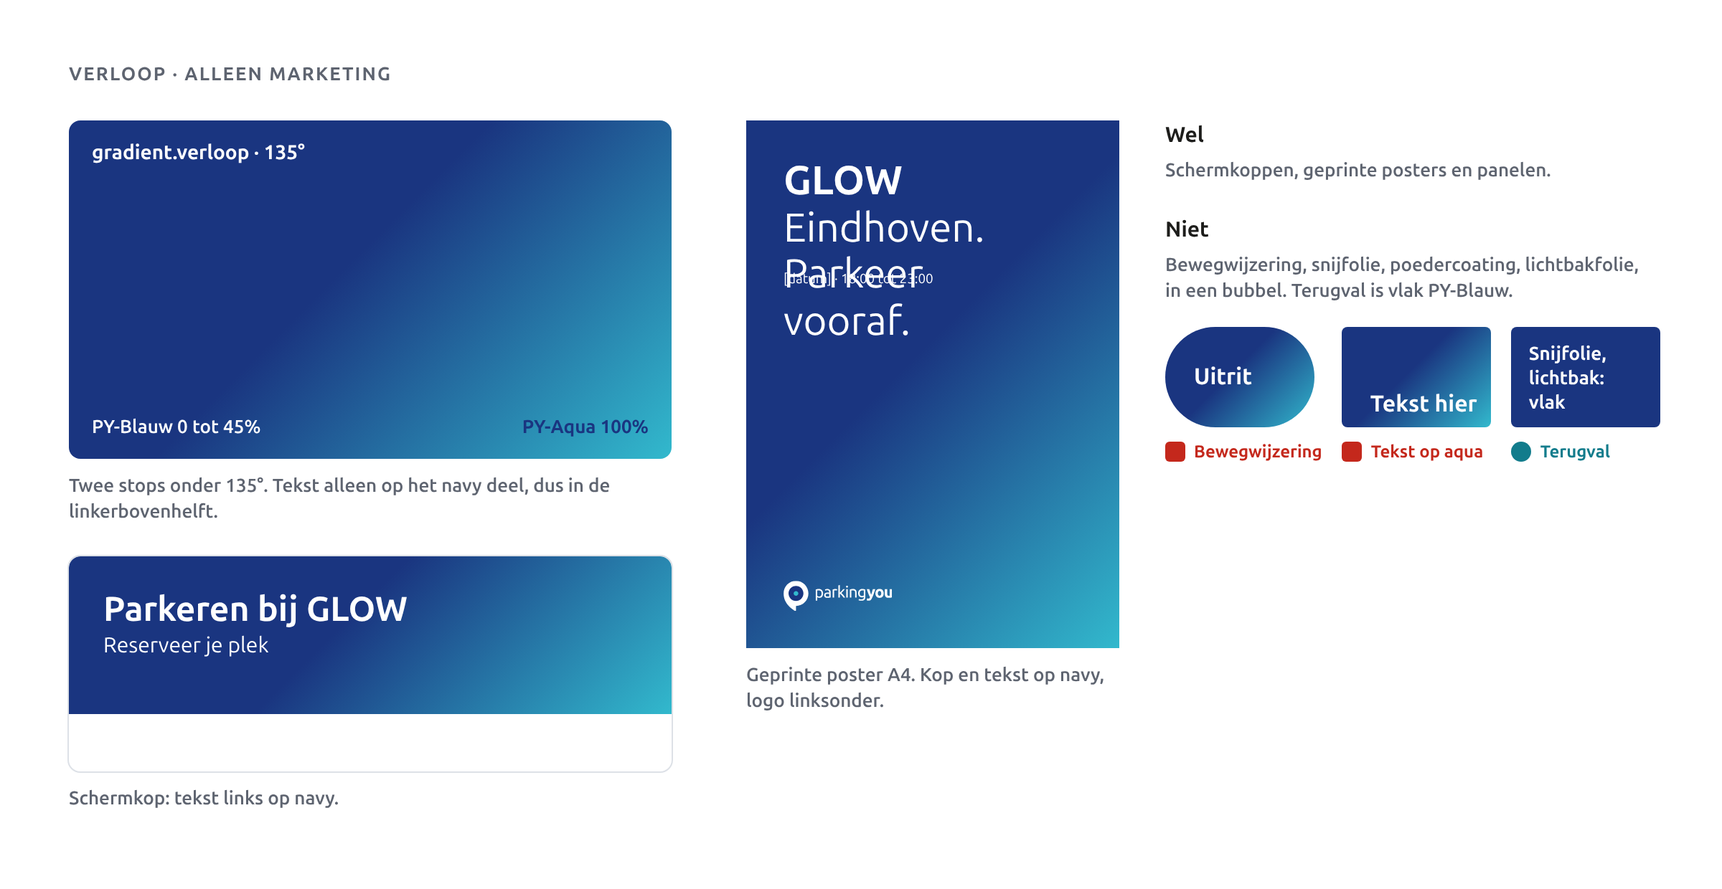
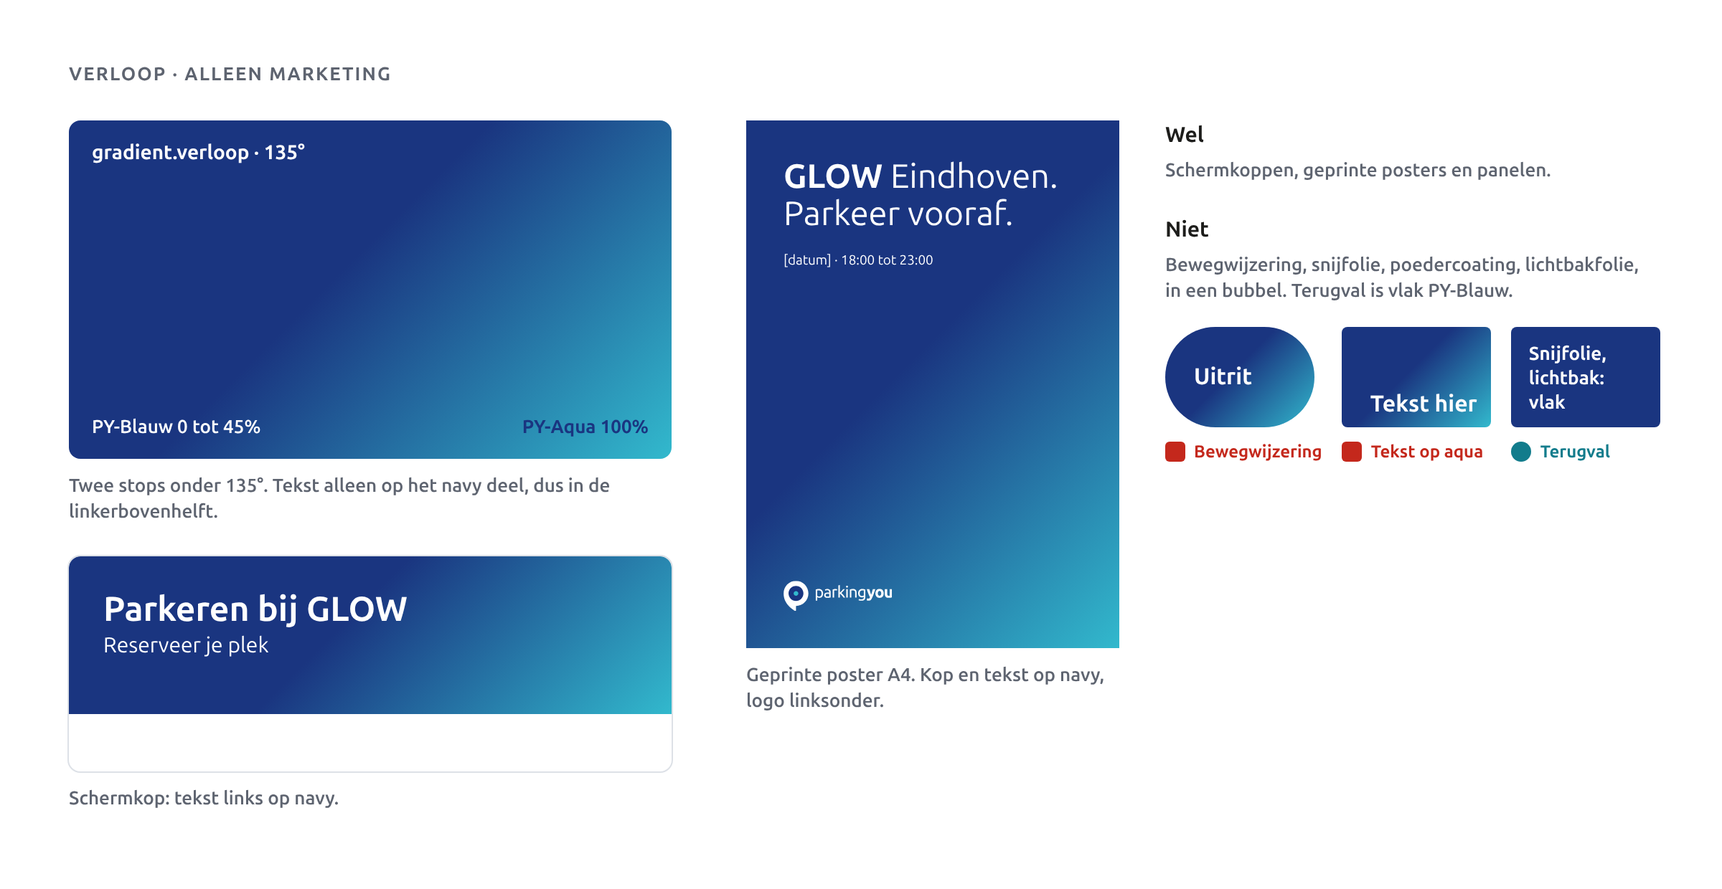
Brand refresh 2027, Phase 2 (work in progress): patronen figure update
Claude-Session: https://claude.ai/code/session_01A5zCZPhhdyTXntSMSAxsZz

Changed region(s): [[0.4375, 0.1839, 0.625, 0.3984]]

diff --git a/brand-2027/02-build/05-patronen/figures/bubbel-niet.html b/brand-2027/02-build/05-patronen/figures/bubbel-niet.html
@@ -19,7 +19,7 @@
 </head>
 <body>
 <div class="fig fig--subtle" style="width: 1200px; height: 600px; ">
-<div class="abs eyebrow" style="left:48px;top:44px">De bubbel · wat nooit</div><div class="tile" style="left:48px;top:88px;width:256px;height:230px"><svg class="abs" viewBox="0 0 36 43.423" width="96" height="115.79466666666667" style="left:80.0px;top:28px;overflow:visible;" aria-hidden="true"><defs><linearGradient id="g1" x1="0" y1="0" x2="1" y2="1"><stop offset="0" stop-color="#1A3580"/><stop offset="0.45" stop-color="#1A3580"/><stop offset="1" stop-color="#32B9CD"/></linearGradient></defs><path d="M18 0C8.059 0 0 8.058 0 17.999C0 34.701 16.691 43.074 16.691 43.074C17.264 43.423 18 43.006 18 42.335L18 35.997C27.941 35.997 36 27.939 36 17.999C36 8.058 27.941 0 18 0Z" fill="url(#g1)"/></svg><div class="tc"><span class="dont" style="font-size:13px">Geen verloop</span></div></div><div class="tile" style="left:328px;top:88px;width:256px;height:230px"><svg class="abs" viewBox="0 0 36 43.423" width="96" height="115.79466666666667" style="left:80.0px;top:28px;overflow:visible;filter: drop-shadow(0 10px 10px rgba(13,20,46,0.45))" aria-hidden="true"><path d="M18 0C8.059 0 0 8.058 0 17.999C0 34.701 16.691 43.074 16.691 43.074C17.264 43.423 18 43.006 18 42.335L18 35.997C27.941 35.997 36 27.939 36 17.999C36 8.058 27.941 0 18 0Z" fill="#1A3580"/></svg><div class="tc"><span class="dont" style="font-size:13px">Geen schaduw of 3D</span></div></div><div class="tile" style="left:608px;top:88px;width:256px;height:230px"><svg class="abs" viewBox="0 0 36 43.423" width="150" height="115.79466666666667" preserveAspectRatio="none" style="left:53.0px;top:28px" aria-hidden="true"><path d="M18 0C8.059 0 0 8.058 0 17.999C0 34.701 16.691 43.074 16.691 43.074C17.264 43.423 18 43.006 18 42.335L18 35.997C27.941 35.997 36 27.939 36 17.999C36 8.058 27.941 0 18 0Z" fill="#32B9CD"/></svg><div class="tc"><span class="dont" style="font-size:13px">Niet vervormen</span></div></div><div class="tile" style="left:888px;top:88px;width:256px;height:230px"><svg class="abs" viewBox="0 0 36 43.423" width="96.00" height="115.79" style="left:80.00px;top:28.00px;overflow:visible;" aria-hidden="true"><g><path d="M18 0C8.059 0 0 8.058 0 17.999C0 34.701 16.691 43.074 16.691 43.074C17.264 43.423 18 43.006 18 42.335L18 35.997C27.941 35.997 36 27.939 36 17.999C36 8.058 27.941 0 18 0Z" fill="#1A3580"/></g></svg><div class="abs" style="left:80.00px;top:28.00px;width:96.00px;height:96.00px;display:flex;align-items:center;justify-content:center;color:#FFFFFF;"><div style="font:800 15px/1 var(--py-font-sans);color:#fff">Parkeren</div></div><div class="tc"><span class="dont" style="font-size:13px">Geen lange tekst</span></div></div><div class="tile" style="left:48px;top:342px;width:256px;height:230px"><svg class="abs" viewBox="0 0 36 43.423" width="96.00" height="115.79" style="left:80.00px;top:28.00px;overflow:visible;" aria-hidden="true"><g><path d="M18 0C8.059 0 0 8.058 0 17.999C0 34.701 16.691 43.074 16.691 43.074C17.264 43.423 18 43.006 18 42.335L18 35.997C27.941 35.997 36 27.939 36 17.999C36 8.058 27.941 0 18 0Z" fill="#32B9CD"/></g></svg><div class="abs" style="left:80.00px;top:28.00px;width:96.00px;height:96.00px;display:flex;align-items:center;justify-content:center;color:#1A3580;"><img src="../../kit/assets/logo-beeldmerk-color.svg" alt="" style="height:52px"></div><div class="tc"><span class="dont" style="font-size:13px">Geen logo erin</span></div></div><div class="tile" style="left:328px;top:342px;width:256px;height:230px"><svg class="abs" viewBox="0 0 36 43.423" width="96.00" height="115.79" style="left:54.00px;top:28.00px;overflow:visible;" aria-hidden="true"><g><path d="M18 0C8.059 0 0 8.058 0 17.999C0 34.701 16.691 43.074 16.691 43.074C17.264 43.423 18 43.006 18 42.335L18 35.997C27.941 35.997 36 27.939 36 17.999C36 8.058 27.941 0 18 0Z" fill="#1A3580"/></g></svg><svg class="abs" viewBox="0 0 36 43.423" width="96.00" height="115.79" style="left:110.00px;top:46.00px;overflow:visible;" aria-hidden="true"><g><path d="M18 0C8.059 0 0 8.058 0 17.999C0 34.701 16.691 43.074 16.691 43.074C17.264 43.423 18 43.006 18 42.335L18 35.997C27.941 35.997 36 27.939 36 17.999C36 8.058 27.941 0 18 0Z" fill="#32B9CD"/></g></svg><div class="tc"><span class="dont" style="font-size:13px">Niet overlappen</span></div></div><div class="tile" style="left:608px;top:342px;width:256px;height:230px"><div class="abs" style="left:80.0px;top:28px;width:96px;height:116px;background:url('../../kit/photos/py-photo-evoluon.jpg') 50% 50% / auto 140px;clip-path: path('M 48 0 C 21.5 0 0 21.5 0 48 C 0 92.6 44.5 114.9 44.5 114.9 C 46 115.8 48 114.7 48 112.9 L 48 96 C 74.5 96 96 74.5 96 48 C 96 21.5 74.5 0 48 0 Z')"></div><div class="abs" style="left:80.0px;top:58px;width:96px;text-align:center;color:#fff;font:700 15px/18px var(--py-font-sans)">Nu € 5<br>per dag</div><div class="tc"><span class="dont" style="font-size:13px">Geen tekst op foto</span></div></div><div class="tile" style="left:888px;top:342px;width:256px;height:230px"><img class="abs" src="../../../../svg/atom/py-atom-escape-emergency-exit.svg" alt="" style="left:23.0px;top:40px;width:210px"><svg class="abs" viewBox="0 0 36 43.423" width="48.00" height="57.90" style="left:173.00px;top:22.00px;overflow:visible;" aria-hidden="true"><g><path d="M18 0C8.059 0 0 8.058 0 17.999C0 34.701 16.691 43.074 16.691 43.074C17.264 43.423 18 43.006 18 42.335L18 35.997C27.941 35.997 36 27.939 36 17.999C36 8.058 27.941 0 18 0Z" fill="#FFFFFF"/></g></svg><div class="abs" style="left:173.00px;top:22.00px;width:48.00px;height:48.00px;display:flex;align-items:center;justify-content:center;color:#1A3580;"><svg viewBox="0 0 24 24" width="24" height="24" aria-hidden="true"><path d="M5 12H19M12 5L19 12L12 19" fill="none" stroke="#1A3580" stroke-width="3" stroke-linecap="round" stroke-linejoin="round"/></svg></div><div class="tc"><span class="dont" style="font-size:13px">Niet in veiligheidsborden</span></div></div>
+<div class="abs eyebrow" style="left:48px;top:44px">De bubbel · wat nooit</div><div class="tile" style="left:48px;top:88px;width:256px;height:230px"><svg class="abs" viewBox="0 0 36 43.423" width="96" height="115.79466666666667" style="left:80.0px;top:28px;overflow:visible;" aria-hidden="true"><defs><linearGradient id="g1" x1="0" y1="0" x2="1" y2="1"><stop offset="0" stop-color="#1A3580"/><stop offset="0.45" stop-color="#1A3580"/><stop offset="1" stop-color="#32B9CD"/></linearGradient></defs><path d="M18 0C8.059 0 0 8.058 0 17.999C0 34.701 16.691 43.074 16.691 43.074C17.264 43.423 18 43.006 18 42.335L18 35.997C27.941 35.997 36 27.939 36 17.999C36 8.058 27.941 0 18 0Z" fill="url(#g1)"/></svg><div class="tc"><span class="dont" style="font-size:13px">Geen verloop</span></div></div><div class="tile" style="left:328px;top:88px;width:256px;height:230px"><svg class="abs" viewBox="0 0 36 43.423" width="96" height="115.79466666666667" style="left:80.0px;top:28px;overflow:visible;filter: drop-shadow(0 10px 10px rgba(13,20,46,0.45))" aria-hidden="true"><path d="M18 0C8.059 0 0 8.058 0 17.999C0 34.701 16.691 43.074 16.691 43.074C17.264 43.423 18 43.006 18 42.335L18 35.997C27.941 35.997 36 27.939 36 17.999C36 8.058 27.941 0 18 0Z" fill="#1A3580"/></svg><div class="tc"><span class="dont" style="font-size:13px">Geen schaduw of 3D</span></div></div><div class="tile" style="left:608px;top:88px;width:256px;height:230px"><svg class="abs" viewBox="0 0 36 43.423" width="150" height="115.79466666666667" preserveAspectRatio="none" style="left:53.0px;top:28px" aria-hidden="true"><path d="M18 0C8.059 0 0 8.058 0 17.999C0 34.701 16.691 43.074 16.691 43.074C17.264 43.423 18 43.006 18 42.335L18 35.997C27.941 35.997 36 27.939 36 17.999C36 8.058 27.941 0 18 0Z" fill="#32B9CD"/></svg><div class="tc"><span class="dont" style="font-size:13px">Niet vervormen</span></div></div><div class="tile" style="left:888px;top:88px;width:256px;height:230px"><svg class="abs" viewBox="0 0 36 43.423" width="96.00" height="115.79" style="left:80.00px;top:28.00px;overflow:visible;" aria-hidden="true"><g><path d="M18 0C8.059 0 0 8.058 0 17.999C0 34.701 16.691 43.074 16.691 43.074C17.264 43.423 18 43.006 18 42.335L18 35.997C27.941 35.997 36 27.939 36 17.999C36 8.058 27.941 0 18 0Z" fill="#1A3580"/></g></svg><div class="abs" style="left:80.00px;top:28.00px;width:96.00px;height:96.00px;display:flex;align-items:center;justify-content:center;color:#FFFFFF;"><div style="font:800 15px/1 var(--py-font-sans);color:#fff">Parkeren</div></div><div class="tc"><span class="dont" style="font-size:13px">Geen lange tekst</span></div></div><div class="tile" style="left:48px;top:342px;width:256px;height:230px"><svg class="abs" viewBox="0 0 36 43.423" width="96.00" height="115.79" style="left:80.00px;top:28.00px;overflow:visible;" aria-hidden="true"><g><path d="M18 0C8.059 0 0 8.058 0 17.999C0 34.701 16.691 43.074 16.691 43.074C17.264 43.423 18 43.006 18 42.335L18 35.997C27.941 35.997 36 27.939 36 17.999C36 8.058 27.941 0 18 0Z" fill="#32B9CD"/></g></svg><div class="abs" style="left:80.00px;top:28.00px;width:96.00px;height:96.00px;display:flex;align-items:center;justify-content:center;color:#1A3580;"><img src="../../kit/assets/logo-beeldmerk-color.svg" alt="" style="height:52px"></div><div class="tc"><span class="dont" style="font-size:13px">Geen logo erin</span></div></div><div class="tile" style="left:328px;top:342px;width:256px;height:230px"><svg class="abs" viewBox="0 0 36 43.423" width="96.00" height="115.79" style="left:54.00px;top:28.00px;overflow:visible;" aria-hidden="true"><g><path d="M18 0C8.059 0 0 8.058 0 17.999C0 34.701 16.691 43.074 16.691 43.074C17.264 43.423 18 43.006 18 42.335L18 35.997C27.941 35.997 36 27.939 36 17.999C36 8.058 27.941 0 18 0Z" fill="#1A3580"/></g></svg><svg class="abs" viewBox="0 0 36 43.423" width="96.00" height="115.79" style="left:110.00px;top:46.00px;overflow:visible;" aria-hidden="true"><g><path d="M18 0C8.059 0 0 8.058 0 17.999C0 34.701 16.691 43.074 16.691 43.074C17.264 43.423 18 43.006 18 42.335L18 35.997C27.941 35.997 36 27.939 36 17.999C36 8.058 27.941 0 18 0Z" fill="#32B9CD"/></g></svg><div class="tc"><span class="dont" style="font-size:13px">Niet overlappen</span></div></div><div class="tile" style="left:608px;top:342px;width:256px;height:230px"><div class="abs" style="left:80.0px;top:28px;width:96px;height:116px;background:url('../../kit/photos/py-photo-evoluon.jpg') 50% 50% / auto 140px;clip-path: path('M 48 0 C 21.5 0 0 21.5 0 48 C 0 92.6 44.5 114.9 44.5 114.9 C 46 115.8 48 114.7 48 112.9 L 48 96 C 74.5 96 96 74.5 96 48 C 96 21.5 74.5 0 48 0 Z')"></div><div class="abs" style="left:80.0px;top:58px;width:96px;text-align:center;color:#fff;font:700 15px/18px var(--py-font-sans)">Nu € 5<br>per dag</div><div class="tc"><span class="dont" style="font-size:13px">Geen tekst op foto</span></div></div><div class="tile" style="left:888px;top:342px;width:256px;height:230px"><img class="abs" src="../../../../svg/atom/py-atom-escape-emergency-exit.svg" alt="" style="left:23.0px;top:40px;width:210px"><svg class="abs" viewBox="0 0 36 43.423" width="48.00" height="57.90" style="left:169.00px;top:54.00px;overflow:visible;" aria-hidden="true"><g><path d="M18 0C8.059 0 0 8.058 0 17.999C0 34.701 16.691 43.074 16.691 43.074C17.264 43.423 18 43.006 18 42.335L18 35.997C27.941 35.997 36 27.939 36 17.999C36 8.058 27.941 0 18 0Z" fill="#FFFFFF"/></g></svg><div class="abs" style="left:169.00px;top:54.00px;width:48.00px;height:48.00px;display:flex;align-items:center;justify-content:center;color:#1A3580;"><svg viewBox="0 0 24 24" width="24" height="24" aria-hidden="true"><path d="M5 12H19M12 5L19 12L12 19" fill="none" stroke="#1A3580" stroke-width="3" stroke-linecap="round" stroke-linejoin="round"/></svg></div><div class="tc"><span class="dont" style="font-size:13px">Niet in veiligheidsborden</span></div></div>
 </div>
 </body>
 </html>

diff --git a/brand-2027/02-build/05-patronen/figures/verloop.html b/brand-2027/02-build/05-patronen/figures/verloop.html
@@ -23,7 +23,7 @@
 <div class="abs" style="left:48px;top:388px"><div style="width:420px;height:150px;border-radius:8px;overflow:hidden;background:#fff;outline:1px solid #DDE1E7">
 <div style="height:110px;background:linear-gradient(135deg, #1A3580 0%, #1A3580 45%, #32B9CD 100%);padding:22px 24px;color:#fff">
 <div style="font:700 24px/30px var(--py-font-sans)">Parkeren bij GLOW</div><div style="font:400 15px/20px var(--py-font-sans)">Reserveer je plek</div></div></div><div class="cap" style="width:420px;margin-top:10px">Schermkop: tekst links op navy.</div></div>
-<div class="abs" style="left:520px;top:84px"><div style="position:relative;width:260.4px;height:368.3px;overflow:hidden;"><div style="position:absolute;left:0;top:0;width:420px;height:594px;transform:scale(0.62);transform-origin:0 0;overflow:hidden"><div class="abs" style="inset:0;background:linear-gradient(135deg, #1A3580 0%, #1A3580 45%, #32B9CD 100%)"></div><div class="abs" style="left:42px;top:42px;width:294px;color:#FFFFFF;font-size:45.5px;line-height:52.5px"><b>GLOW</b> Eindhoven.<br>Parkeer vooraf.</div><div class="abs" style="left:42px;top:168px;width:189px;color:#FFFFFF;font:400 15.2px/21px var(--py-font-sans)">[datum] · 18:00 tot 23:00</div><img src="../../kit/assets/logo-horizontal-reverse.svg" alt="" style="height:33.6px;display:block;position:absolute;left:42px;top:518.4px;"></div></div><div class="cap" style="width:260px;margin-top:10px">Geprinte poster A4. Kop en tekst op navy, logo linksonder.</div></div>
+<div class="abs" style="left:520px;top:84px"><div style="position:relative;width:260.4px;height:368.3px;overflow:hidden;"><div style="position:absolute;left:0;top:0;width:420px;height:594px;transform:scale(0.62);transform-origin:0 0;overflow:hidden"><div class="abs" style="inset:0;background:linear-gradient(135deg, #1A3580 0%, #1A3580 45%, #32B9CD 100%)"></div><div class="abs" style="left:42px;top:42px;width:336px;color:#FFFFFF;font-size:37.9px;line-height:42px"><b>GLOW</b> Eindhoven.<br>Parkeer vooraf.</div><div class="abs" style="left:42px;top:147px;width:252px;color:#FFFFFF;font:400 15.2px/21px var(--py-font-sans)">[datum] · 18:00 tot 23:00</div><img src="../../kit/assets/logo-horizontal-reverse.svg" alt="" style="height:33.6px;display:block;position:absolute;left:42px;top:518.4px;"></div></div><div class="cap" style="width:260px;margin-top:10px">Geprinte poster A4. Kop en tekst op navy, logo linksonder.</div></div>
 <div class="abs" style="left:812px;top:84px;width:340px">
   <div class="h" style="margin-bottom:6px">Wel</div><div class="cap" style="margin-bottom:22px">Schermkoppen, geprinte posters en panelen.</div>
   <div class="h" style="margin-bottom:6px">Niet</div><div class="cap" style="margin-bottom:16px">Bewegwijzering, snijfolie, poedercoating, lichtbakfolie, in een bubbel. Terugval is vlak PY-Blauw.</div>

diff --git a/brand-2027/02-build/01-logo/chapter.md b/brand-2027/02-build/01-logo/chapter.md
@@ -2,9 +2,7 @@
 
 ## Wat het logo is
 
-Ons logo bestaat uit twee delen. Het beeldmerk: een bubbel met een ring en een aqua stip. En het woordmerk: "parking" in Ubuntu Regular en "you" in Ubuntu Bold, als tekening, niet als tekst.
-
-Het logo blijft zoals het is. Mensen kennen het van de lichtbak bij de ingang, de pas en de site. Die herkenning bouw je niet opnieuw op. Wat verandert: de reverse versie wordt officieel en er komt een navy versie voor aqua en oranje.
+Het logo is het beeldmerk (een bubbel met ring en aqua stip) plus het woordmerk "parkingyou", getekend, niet getypt. Het blijft zoals het is: mensen kennen het van de lichtbak, de pas en de site. Nieuw is alleen dat de reverse versie officieel wordt en dat er een navy versie bijkomt voor aqua en oranje.
 
 We meten alles in **x**: de breedte van het beeldmerk in de lockup die je gebruikt.
 
@@ -14,10 +12,10 @@ We meten alles in **x**: de breedte van het beeldmerk in de lockup die je gebrui
 
 - **Liggend** is de standaard. Gebruik deze als je niet zeker weet welke.
 - **Staand** voor smalle, hoge vlakken: een pyloon, een story, een sticker.
-- **Beeldmerk los** als het logo klein moet of als het merk al duidelijk is: app-icoon, avatar, favicon.
+- **Beeldmerk los** voor app-icoon, avatar en favicon.
 - **Woordmerk los** alleen als het beeldmerk al op hetzelfde vlak staat.
 
-Je combineert de delen nooit zelf. Gebruik de bestanden `logo-horizontal-*`, `logo-stacked-*`, `logo-beeldmerk-*` en `logo-wordmark-*`.
+Stel de delen nooit zelf samen; gebruik de bestanden.
 
 ## Vijf versies, elk op zijn eigen ondergrond
 
@@ -31,13 +29,13 @@ Je combineert de delen nooit zelf. Gebruik de bestanden `logo-horizontal-*`, `lo
 | Navy, één kleur (nieuw) | PY-Aqua, PY-Oranje, eenkleurige navy druk | `logo-*-navy.svg` |
 | Zwart, één kleur | alleen eenkleurige zwarte druk | `logo-*-black.svg` |
 
-Op beeld werkt het zo. Zoek een rustig vlak: lucht, een egale muur, schaduw. Licht vlak: kleurversie. Donker vlak: reverse. Is de foto overal druk, zet het logo dan op een navy vlak naast of onder de foto, niet op een donkere laag over de foto. Op het verloop staat alleen de reverse versie, en alleen op het navy deel.
+Op een foto zoek je een rustig vlak. Licht: kleurversie. Donker: reverse. Is de foto overal druk, zet het logo dan op een navy vlak naast de foto, niet op een donkere laag erover. Op het verloop alleen de reverse versie, op het navy deel.
 
 ## Vrije ruimte
 
 ![Vrije ruimte](figures/clear-space.png)
 
-Rond elke lockup blijft 0,5x vrij, aan alle kanten, ook onder de punt van het beeldmerk. In dat vlak staat niets: geen tekst, geen rand, geen bubbel, geen rand van het formaat. Staat het logo in een hoek van een poster of pas, dan is de marge 2u of 0,5x, wat het grootst is.
+Rond elke lockup blijft 0,5x vrij, ook onder de punt. Daar staat niets: geen tekst, geen bubbel, geen rand van het formaat. In een hoek van een poster of pas is de marge 2u of 0,5x, wat het grootst is.
 
 ## Minimale maten
 
@@ -55,7 +53,7 @@ Op borden geldt één regel: het beeldmerk is minstens 2 keer zo hoog als de kap
 
 ![Opbouw locatielockup](figures/location-construction.png)
 
-Bij een garage of locatie zetten we de naam naast het logo. Het logo zelf blijft het originele bestand; alleen de naam is tekst.
+Het logo blijft het originele bestand; alleen de naam is tekst.
 
 **A, naam onder het woordmerk (standaard).**
 - Liggend logo, ongewijzigd.
@@ -64,14 +62,14 @@ Bij een garage of locatie zetten we de naam naast het logo. Het logo zelf blijft
 - Basislijn van de naam op de punt van het beeldmerk.
 - Vrije ruimte 0,5x om het geheel.
 
-**B, naam op één regel.** Voor brede, lage vlakken: portalen, gevelbanden, de kop van een webpagina. Zelfde lettergrootte 0,4x, op de basislijn van het woordmerk, 0,5x na "you".
+**B, naam op één regel.** Voor portalen, gevelbanden en de kop van een webpagina. Zelfde letter, op de basislijn van het woordmerk, 0,5x na "you".
 
-De naam heeft altijd de kleur van het woordmerk: navy op licht en op aqua of oranje, wit bij de reverse versie. Nooit aqua of oranje tekst. Schrijf alleen de plaatsnaam: "Philips Stadion", niet "Parking Philips Stadion". Past een naam op een bord niet, gebruik dan Ubuntu Sans Condensed Bold. Geen tweede regel en geen kleinere letter. De staande lockup krijgt geen naam.
+De naam heeft de kleur van het woordmerk, nooit aqua of oranje. Schrijf alleen de plaatsnaam: "Philips Stadion", niet "Parking Philips Stadion". Past hij op een bord niet, gebruik dan Condensed Bold; geen tweede regel, geen kleinere letter. De staande lockup krijgt geen naam.
 
 Maat kiezen: begin bij de naam. x = 2,5 keer de lettergrootte van de naam.
 - Scherm: naam 16 px geeft x = 40 px, het beeldmerk wordt 48 px hoog.
 - Druk: naam in print-h2 (22 pt) geeft x = 55 pt, ongeveer 19 mm.
-- Borden: de naam volgt de leesafstand uit de typografie. Op 5 meter is de letter 72 mm, dus x = 180 mm. Het beeldmerk is dan ruim 4 keer de kapitaalhoogte van de naam; de bordregel klopt vanzelf.
+- Borden: de naam volgt de leesafstand. Op 5 meter is de letter 72 mm, dus x = 180 mm. De bordregel klopt dan vanzelf.
 
 ![Locatielockups in gebruik](figures/location-examples.png)
 
@@ -79,20 +77,20 @@ De huidige Maashaven-lockup heeft een kleiner woordmerk dan het echte logo. Bij 
 
 ## Tagline "The other way of parking"
 
-**Advies: stoppen met de tagline als lockup.** Vier redenen:
-1. Hij is Engels. Al onze teksten zijn Nederlands, met je en jij.
-2. De kleurversie zet aqua tekst op wit: 2,34:1. Dat haalt WCAG niet.
-3. Hij staat op 0,158 keer de hoogte van het beeldmerk. Bij een logo van 24 px is dat minder dan 4 px: onleesbaar.
-4. Hij belooft iets zonder het te laten zien. "**Parkeren** zonder gedoe." zegt meer, als kop in de layout.
+**Advies: stoppen met de tagline als lockup.**
+1. Hij is Engels; al onze teksten zijn Nederlands.
+2. De kleurversie is aqua op wit: 2,34:1, dat haalt WCAG niet.
+3. Hij staat op 0,158 keer de hoogte van het beeldmerk. Bij een logo van 24 px is dat minder dan 4 px.
+4. Hij belooft iets zonder het te laten zien. "**Parkeren** zonder gedoe." als kop zegt meer.
 
-Bestaand drukwerk mag op, nieuw werk krijgt hem niet meer. Wil Rick hem houden, dan als losse regel tekst in de layout, niet vast aan het logo.
+Bestaand drukwerk mag op. Wil Rick hem houden, dan als losse regel in de layout, niet vast aan het logo.
 
 ## App-icoon en favicon
 
 ![App-icoon en favicon](figures/app-icon.png)
 
 - Reverse beeldmerk op PY-Blauw.
-- Het vlak is vierkant: 0,5x boven en 0,5x onder het beeldmerk, horizontaal gecentreerd. Het beeldmerk is dan 45 procent van de breedte en valt binnen de veilige zone van Android.
+- Vierkant vlak met 0,5x boven en onder het beeldmerk, horizontaal gecentreerd. Het beeldmerk is dan 45 procent van de breedte en valt binnen de veilige zone van Android.
 - iOS: lever 1024 x 1024 px aan, vierkant, zonder afronding. iOS rondt zelf af.
 - Android: adaptief icoon met PY-Blauw als achterlaag en het beeldmerk als voorlaag.
 - Favicon: SVG plus 32 px. Het beeldmerk is daarin 17,5 px hoog.
@@ -103,18 +101,16 @@ Bestaand drukwerk mag op, nieuw werk krijgt hem niet meer. Wil Rick hem houden, 
 
 ## Do's en don'ts
 
-- Doe: gebruik altijd het originele bestand uit `kit/assets/` of `svg/atom/`.
-- Doe: kies de versie bij de ondergrond, volgens de tabel.
-- Doe: houd 0,5x vrij rondom en blijf boven de minimale maat.
-- Doe: zet een locatienaam volgens opbouw A of B, in Ubuntu Sans Bold.
-- Niet: uitrekken, indrukken of draaien.
-- Niet: andere kleuren, omlijning, schaduw, gloed of verloop in het logo.
-- Niet: het woordmerk opnieuw typen, ook niet in Ubuntu.
-- Niet: beeldmerk en woordmerk los van elkaar schalen of verschuiven.
-- Niet: het logo in een bubbel zetten, of het beeldmerk als bubbel gebruiken voor een prijs, niveau of foto.
-- Niet: het kleurlogo op PY-Blauw, of wit op aqua of oranje.
-- Niet: het logo op een druk deel van een foto.
-- Niet: de tagline aan het logo vastzetten.
+- Doe: altijd het originele bestand uit `kit/assets/` of `svg/atom/`.
+- Doe: de versie die bij de ondergrond hoort.
+- Doe: 0,5x vrij rondom, boven de minimale maat.
+- Doe: locatienaam volgens opbouw A of B.
+- Niet: uitrekken, draaien, omlijnen, schaduw of andere kleuren.
+- Niet: het woordmerk opnieuw typen.
+- Niet: beeldmerk en woordmerk los schalen of verschuiven.
+- Niet: het logo in een bubbel, of het beeldmerk als bubbel.
+- Niet: kleurlogo op PY-Blauw, wit op aqua of oranje, logo op een drukke foto.
+- Niet: de tagline vast aan het logo.
 
 ## Voorgestelde waarden
 
@@ -122,5 +118,5 @@ Niet gebruiken in definitief werk tot de creative director akkoord geeft. De fig
 
 | Waarde | Voorstel | Reden |
 |---|---|---|
-| Lettergrootte naam in locatielockup | 0,4x (kapitaalhoogte 0,28x) | Eerst 0,5x getest: de naam raakt dan bijna de staarten van p en g, en wordt groter dan het woordmerk. Met 0,4x blijft er lucht, past "Philips Stadion" binnen de breedte van het logo en blijft het beeldmerk ruim 4 keer de kapitaalhoogte van de naam. |
-| Favicon 16 px | Geen eigen 16 px-tekening; de browser verkleint de SVG of 32 px-versie. Uitzondering op het minimum van 16 px voor het losse beeldmerk. | In een tabblad van 16 px is het beeldmerk met vrije ruimte maar 8,7 px hoog. Zonder vrije ruimte wordt het een andere tekening. Dit is de enige plek waar het minimum niet haalbaar is. |
+| Lettergrootte naam in locatielockup | 0,4x (kapitaalhoogte 0,28x) | 0,5x getest: de naam raakt bijna de staarten van p en g en overheerst het woordmerk. Met 0,4x blijft er lucht en past "Philips Stadion" binnen de breedte van het logo. |
+| Favicon 16 px | Geen eigen 16 px-versie; de browser verkleint SVG of 32 px. Uitzondering op het minimum van 16 px. | Op 16 px is het beeldmerk met vrije ruimte 8,7 px hoog. De enige plek waar het minimum niet haalbaar is. |
